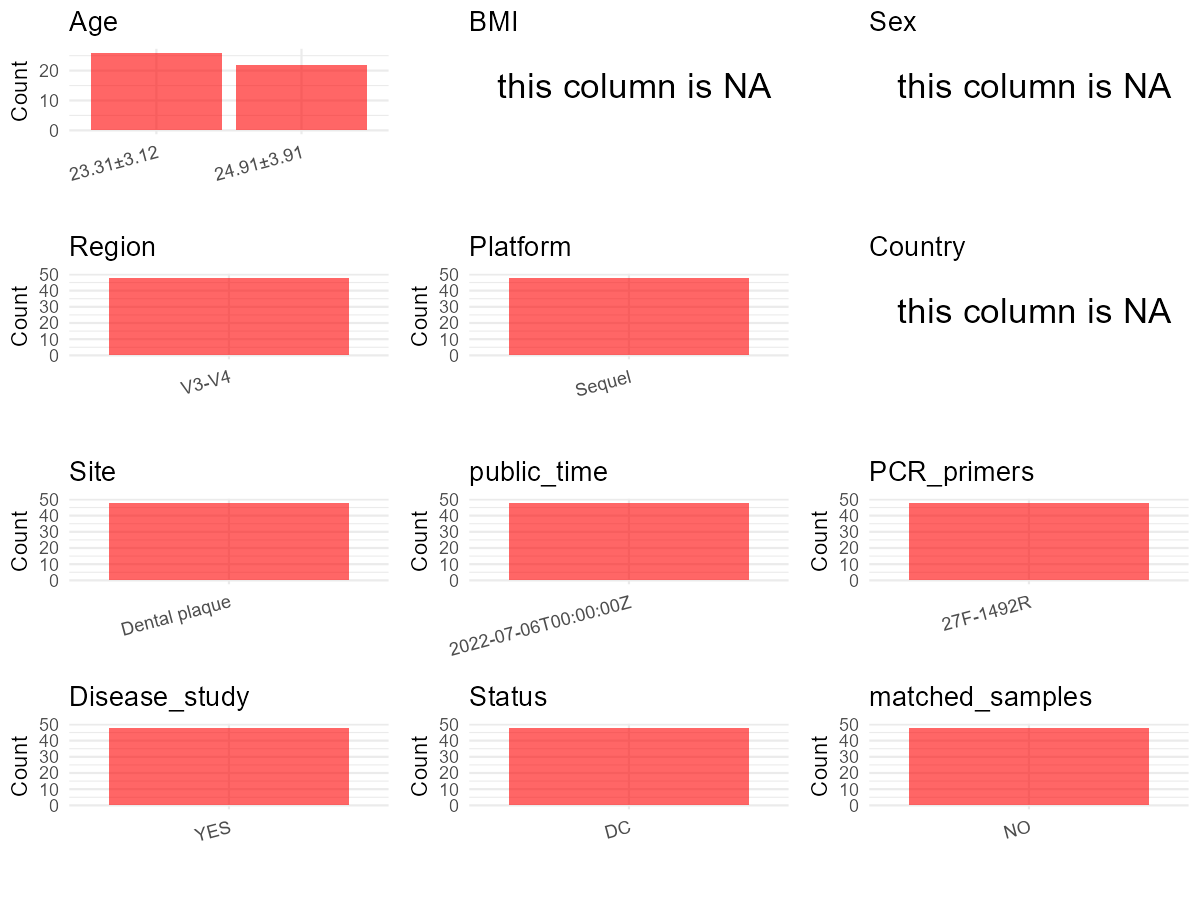
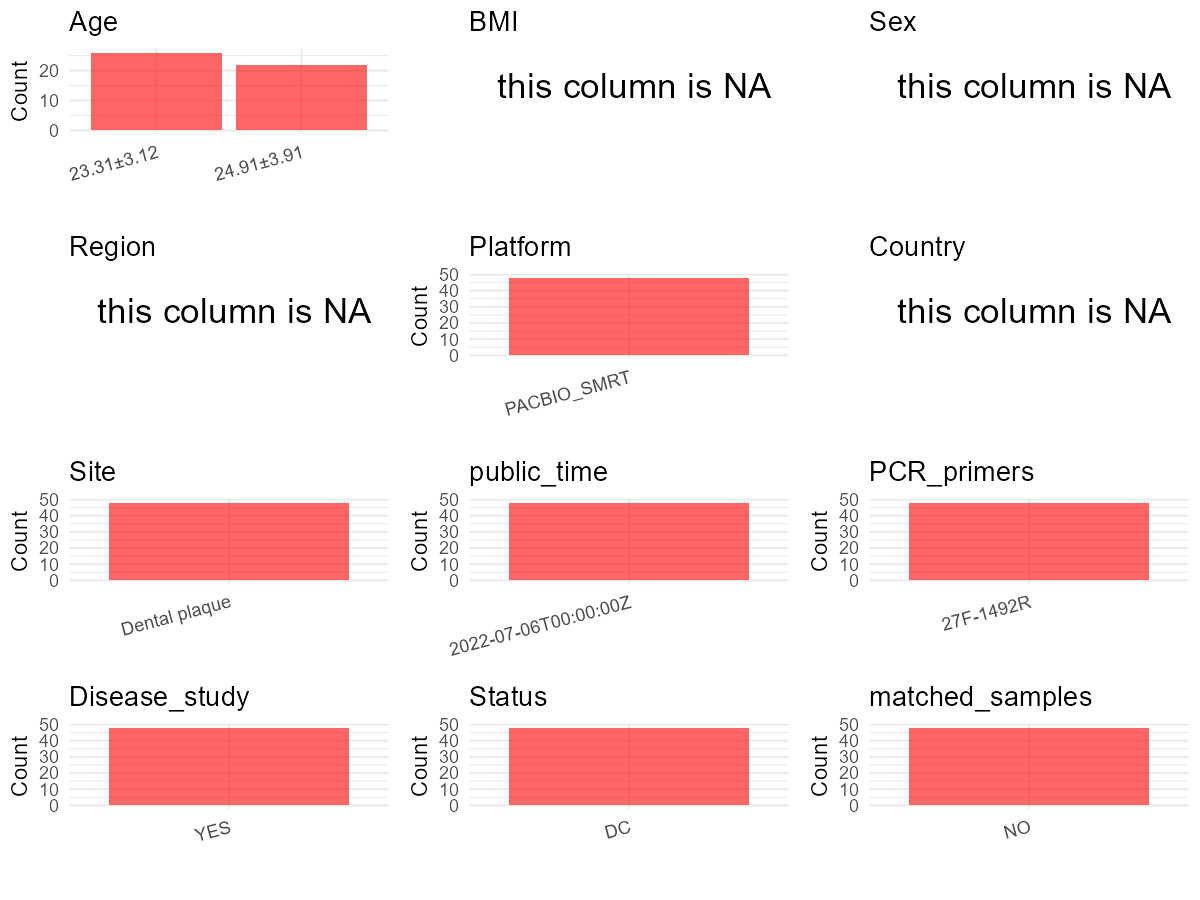
upload files for PRJEB51987

Changed region(s): [[0.0, 0.28, 0.3083, 0.4356], [0.4317, 0.4044, 0.5242, 0.4667]]

diff --git a/data/projects/PRJEB51987/metadata_curation.md b/data/projects/PRJEB51987/metadata_curation.md
@@ -133,8 +133,8 @@ metadata <- data.frame(
   #Age = NA,
   BMI = NA,
   Sex = NA,
-  Region = "V3-V4",
-  Platform = initial_meta$Instrument,
+  Region = NA,
+  Platform = initial_meta$Platform,
   Country = NA,
   Site = "Dental plaque",
   public_time = initial_meta$ReleaseDate,
@@ -225,13 +225,13 @@ head(metadata)
     ## # A tibble: 6 × 16
     ## # Groups:   sample_name [6]
     ##   BioProject Run     sample_name Age   BMI   Sex   Region Platform Country Site 
-    ##   <chr>      <chr>   <chr>       <chr> <lgl> <lgl> <chr>  <chr>    <lgl>   <chr>
-    ## 1 PRJEB51987 ERR954… M1_11       24.9… NA    NA    V3-V4  Sequel   NA      Dent…
-    ## 2 PRJEB51987 ERR956… M1_10       24.9… NA    NA    V3-V4  Sequel   NA      Dent…
-    ## 3 PRJEB51987 ERR956… M1_9        24.9… NA    NA    V3-V4  Sequel   NA      Dent…
-    ## 4 PRJEB51987 ERR956… M1_8        24.9… NA    NA    V3-V4  Sequel   NA      Dent…
-    ## 5 PRJEB51987 ERR956… M1_7        24.9… NA    NA    V3-V4  Sequel   NA      Dent…
-    ## 6 PRJEB51987 ERR956… M1_6        24.9… NA    NA    V3-V4  Sequel   NA      Dent…
+    ##   <chr>      <chr>   <chr>       <chr> <lgl> <lgl> <lgl>  <chr>    <lgl>   <chr>
+    ## 1 PRJEB51987 ERR954… M1_11       24.9… NA    NA    NA     PACBIO_… NA      Dent…
+    ## 2 PRJEB51987 ERR956… M1_10       24.9… NA    NA    NA     PACBIO_… NA      Dent…
+    ## 3 PRJEB51987 ERR956… M1_9        24.9… NA    NA    NA     PACBIO_… NA      Dent…
+    ## 4 PRJEB51987 ERR956… M1_8        24.9… NA    NA    NA     PACBIO_… NA      Dent…
+    ## 5 PRJEB51987 ERR956… M1_7        24.9… NA    NA    NA     PACBIO_… NA      Dent…
+    ## 6 PRJEB51987 ERR956… M1_6        24.9… NA    NA    NA     PACBIO_… NA      Dent…
     ## # ℹ 6 more variables: public_time <chr>, PCR_primers <chr>, title <chr>,
     ## #   Disease_study <chr>, Status <chr>, matched_samples <chr>
 
